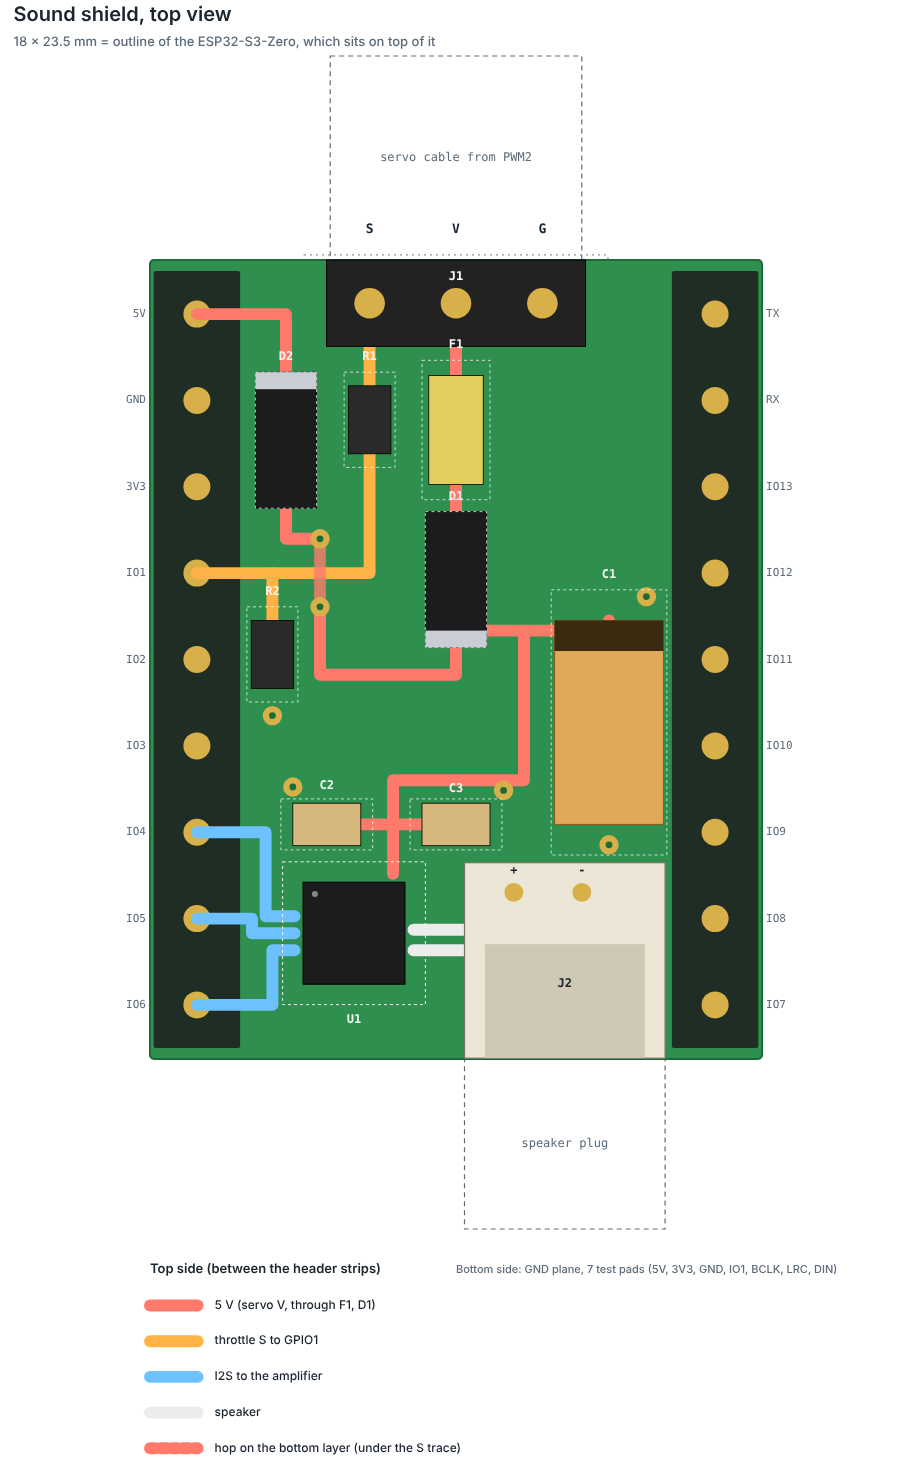
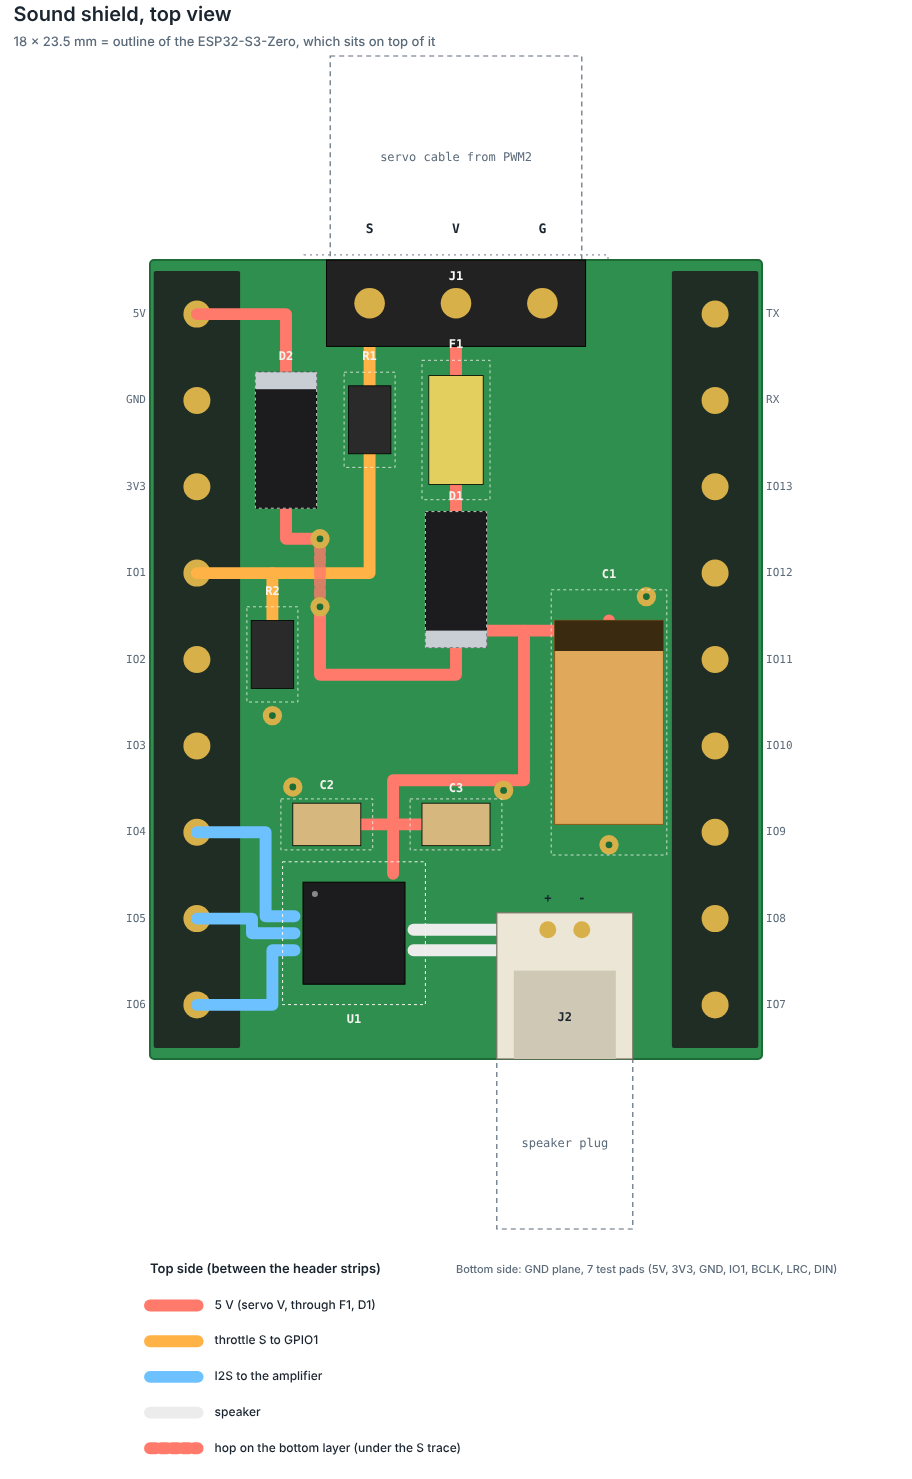
Shield: speaker connector J2 = JST SH 1.0 mm 2-pin (as CyberBrick motor/button ports)
Documents the connectors used by CyberBrick (from the Maker's Supply manual); mock and 3D model updated.

Claude-Session: https://claude.ai/code/session_01RfFviRiwUkSRaVdHR7ASqX

Changed region(s): [[0.4912, 0.5598, 0.7368, 0.7153]]

diff --git a/docs/shield-3d.html b/docs/shield-3d.html
@@ -93,7 +93,7 @@ aside h2 { margin: 0; padding: 10px 12px; font-size: 13px; font-weight: 600; let
 <script src="https://cdn.jsdelivr.net/npm/three@0.128.0/examples/js/controls/OrbitControls.js"></script>
 <script>
 (function () {
-  var D = {"board": {"w": 18.0, "h": 23.5, "t": 1.6}, "hdrX": [1.38, 16.62], "hdrH": 8.5, "pinY": [1.59, 4.13, 6.67, 9.21, 11.75, 14.29, 16.83, 19.37, 21.91], "leftPins": ["5V", "GND", "3V3", "IO1", "IO2", "IO3", "IO4", "IO5", "IO6"], "rightPins": ["TX", "RX", "IO13", "IO12", "IO11", "IO10", "IO9", "IO8", "IO7"], "j1x": [6.46, 9.0, 11.54], "j1y": 1.27, "parts": [{"ref": "J1", "kind": "hdr_ra", "x": 9.0, "y": 1.27, "w": 7.62, "h": 2.54, "z": 2.54, "name": "Input header (S, V, G)", "desc": "3-pin right-angle header at the top edge; the servo cable from PWM2 plugs in from outside. S = throttle copy, V = 5 V, G = ground."}, {"ref": "R1", "kind": "chip_r", "x": 6.46, "y": 4.7, "w": 1.5, "h": 2.8, "z": 0.5, "body": [1.25, 2.0], "name": "Resistor 1 kOhm", "desc": "Series resistor between the throttle signal and GPIO1."}, {"ref": "F1", "kind": "chip_f", "x": 9.0, "y": 5.0, "w": 2.0, "h": 4.1, "z": 1.0, "body": [1.6, 3.2], "name": "Resettable fuse (PTC)", "desc": "1206 PTC, about 0.5 A hold. Limits the current drawn from the servo port (the module takes about 0.1 A)."}, {"ref": "D1", "kind": "diode", "x": 9.0, "y": 9.4, "w": 1.8, "h": 4.0, "z": 1.1, "band": "bottom", "name": "Reverse-polarity diode", "desc": "Schottky diode (SOD-123) protecting the module if the servo cable is plugged in the wrong way round."}, {"ref": "D2", "kind": "diode", "x": 4.0, "y": 5.3, "w": 1.8, "h": 4.0, "z": 1.1, "band": "top", "name": "5 V OR-ing diode", "desc": "Keeps USB 5 V and servo-port 5 V from fighting, so both can be connected at the same time."}, {"ref": "R2", "kind": "chip_r", "x": 3.6, "y": 11.6, "w": 1.5, "h": 2.8, "z": 0.5, "body": [1.25, 2.0], "name": "Resistor 100 kOhm", "desc": "Pull-down on GPIO1, so the input has a defined level when the cable is unplugged."}, {"ref": "C1", "kind": "cap_t", "x": 13.5, "y": 13.6, "w": 3.4, "h": 7.8, "z": 2.8, "body": [3.2, 6.0], "name": "Bulk capacitor 100 uF", "desc": "Polymer/tantalum 6032 case. Absorbs the current peaks of loud passages so the 5 V rail does not sag."}, {"ref": "C2", "kind": "chip_c", "x": 5.2, "y": 16.6, "w": 2.7, "h": 1.5, "z": 0.9, "body": [2.0, 1.25], "name": "Decoupling 10 uF", "desc": "Ceramic 0805 close to the amplifier supply pin."}, {"ref": "C3", "kind": "chip_c", "x": 9.0, "y": 16.6, "w": 2.7, "h": 1.5, "z": 0.6, "body": [2.0, 1.25], "name": "Decoupling 100 nF", "desc": "Ceramic 0805 close to the amplifier supply pin."}, {"ref": "U1", "kind": "qfn", "x": 6.0, "y": 19.8, "w": 4.2, "h": 4.2, "z": 0.8, "body": [3.0, 3.0], "name": "MAX98357A amplifier", "desc": "I2S class-D amplifier, TQFN-16 3 x 3 mm. Receives BCLK, LRC and DIN from the ESP32 and drives the speaker directly."}, {"ref": "J2", "kind": "jst_side", "x": 12.2, "y": 20.6, "w": 5.9, "h": 5.75, "z": 4.4, "name": "Speaker connector", "desc": "JST-PH 2-pin side-entry connector at the bottom edge; the speaker cable plugs in from outside (or two solder pads instead)."}], "nets": [{"net": "S", "color": "#ffb347", "pts": [[6.46, 1.27], [6.46, 3.8]]}, {"net": "S", "color": "#ffb347", "pts": [[6.46, 5.6], [6.46, 9.21], [1.38, 9.21]]}, {"net": "V", "color": "#ff7a6b", "pts": [[9.0, 1.27], [9.0, 3.35]]}, {"net": "V", "color": "#ff7a6b", "pts": [[9.0, 6.65], [9.0, 7.9]]}, {"net": "5V", "color": "#ff7a6b", "pts": [[9.0, 10.9], [13.5, 10.9], [13.5, 10.6]]}, {"net": "5V", "color": "#ff7a6b", "pts": [[9.0, 10.9], [9.0, 12.2], [5.0, 12.2], [5.0, 10.2]]}, {"net": "5V", "color": "#ff7a6b", "layer": "bot", "pts": [[5.0, 10.2], [5.0, 8.2]]}, {"net": "5V", "color": "#ff7a6b", "pts": [[5.0, 8.2], [4.0, 8.2], [4.0, 6.9]]}, {"net": "5V", "color": "#ff7a6b", "pts": [[4.0, 3.7], [4.0, 1.59], [1.38, 1.59]]}, {"net": "5V", "color": "#ff7a6b", "pts": [[11.0, 10.9], [11.0, 15.3], [7.15, 15.3], [7.15, 18.05]]}, {"net": "5V", "color": "#ff7a6b", "pts": [[6.2, 16.6], [7.15, 16.6]]}, {"net": "5V", "color": "#ff7a6b", "pts": [[7.15, 16.6], [8.0, 16.6]]}, {"net": "DIN", "color": "#6ec1ff", "pts": [[1.38, 16.83], [3.4, 16.83], [3.4, 19.3], [4.25, 19.3]]}, {"net": "BCLK", "color": "#6ec1ff", "pts": [[1.38, 19.37], [3.0, 19.37], [3.0, 19.8], [4.25, 19.8]]}, {"net": "LRC", "color": "#6ec1ff", "pts": [[1.38, 21.91], [3.6, 21.91], [3.6, 20.3], [4.25, 20.3]]}, {"net": "SPK+", "color": "#ececec", "pts": [[7.75, 19.7], [10.7, 19.7], [10.7, 18.6]]}, {"net": "SPK-", "color": "#ececec", "pts": [[7.75, 20.3], [12.7, 20.3], [12.7, 18.6]]}, {"net": "S", "color": "#ffb347", "pts": [[3.6, 9.21], [3.6, 10.6]]}], "gndVias": [[3.6, 13.4], [4.2, 15.5], [10.4, 15.6], [13.5, 17.2], [6.0, 19.8], [14.6, 9.9]], "hopVias": [[5.0, 10.2], [5.0, 8.2]], "tp": [[3.4, 22.7], [5.4, 22.7], [7.4, 22.7], [9.4, 22.7], [11.4, 22.7], [13.4, 22.7], [15.4, 22.7]], "tpNames": ["5V", "3V3", "GND", "IO1", "BCLK", "LRC", "DIN"]};
+  var D = {"board": {"w": 18.0, "h": 23.5, "t": 1.6}, "hdrX": [1.38, 16.62], "hdrH": 8.5, "pinY": [1.59, 4.13, 6.67, 9.21, 11.75, 14.29, 16.83, 19.37, 21.91], "leftPins": ["5V", "GND", "3V3", "IO1", "IO2", "IO3", "IO4", "IO5", "IO6"], "rightPins": ["TX", "RX", "IO13", "IO12", "IO11", "IO10", "IO9", "IO8", "IO7"], "j1x": [6.46, 9.0, 11.54], "j1y": 1.27, "parts": [{"ref": "J1", "kind": "hdr_ra", "x": 9.0, "y": 1.27, "w": 7.62, "h": 2.54, "z": 2.54, "name": "Input header (S, V, G)", "desc": "3-pin right-angle header at the top edge; the servo cable from PWM2 plugs in from outside. S = throttle copy, V = 5 V, G = ground."}, {"ref": "R1", "kind": "chip_r", "x": 6.46, "y": 4.7, "w": 1.5, "h": 2.8, "z": 0.5, "body": [1.25, 2.0], "name": "Resistor 1 kOhm", "desc": "Series resistor between the throttle signal and GPIO1."}, {"ref": "F1", "kind": "chip_f", "x": 9.0, "y": 5.0, "w": 2.0, "h": 4.1, "z": 1.0, "body": [1.6, 3.2], "name": "Resettable fuse (PTC)", "desc": "1206 PTC, about 0.5 A hold. Limits the current drawn from the servo port (the module takes about 0.1 A)."}, {"ref": "D1", "kind": "diode", "x": 9.0, "y": 9.4, "w": 1.8, "h": 4.0, "z": 1.1, "band": "bottom", "name": "Reverse-polarity diode", "desc": "Schottky diode (SOD-123) protecting the module if the servo cable is plugged in the wrong way round."}, {"ref": "D2", "kind": "diode", "x": 4.0, "y": 5.3, "w": 1.8, "h": 4.0, "z": 1.1, "band": "top", "name": "5 V OR-ing diode", "desc": "Keeps USB 5 V and servo-port 5 V from fighting, so both can be connected at the same time."}, {"ref": "R2", "kind": "chip_r", "x": 3.6, "y": 11.6, "w": 1.5, "h": 2.8, "z": 0.5, "body": [1.25, 2.0], "name": "Resistor 100 kOhm", "desc": "Pull-down on GPIO1, so the input has a defined level when the cable is unplugged."}, {"ref": "C1", "kind": "cap_t", "x": 13.5, "y": 13.6, "w": 3.4, "h": 7.8, "z": 2.8, "body": [3.2, 6.0], "name": "Bulk capacitor 100 uF", "desc": "Polymer/tantalum 6032 case. Absorbs the current peaks of loud passages so the 5 V rail does not sag."}, {"ref": "C2", "kind": "chip_c", "x": 5.2, "y": 16.6, "w": 2.7, "h": 1.5, "z": 0.9, "body": [2.0, 1.25], "name": "Decoupling 10 uF", "desc": "Ceramic 0805 close to the amplifier supply pin."}, {"ref": "C3", "kind": "chip_c", "x": 9.0, "y": 16.6, "w": 2.7, "h": 1.5, "z": 0.6, "body": [2.0, 1.25], "name": "Decoupling 100 nF", "desc": "Ceramic 0805 close to the amplifier supply pin."}, {"ref": "U1", "kind": "qfn", "x": 6.0, "y": 19.8, "w": 4.2, "h": 4.2, "z": 0.8, "body": [3.0, 3.0], "name": "MAX98357A amplifier", "desc": "I2S class-D amplifier, TQFN-16 3 x 3 mm. Receives BCLK, LRC and DIN from the ESP32 and drives the speaker directly."}, {"ref": "J2", "kind": "jst_side", "x": 12.2, "y": 21.35, "w": 4.0, "h": 4.3, "z": 3.9, "name": "Speaker connector (JST SH 1.0)", "desc": "JST SH 1.0 mm 2-pin side-entry connector at the bottom edge, the same type as the CyberBrick motor ports (M1/M2) and button ports. The speaker cable (for example the 2-pin SH cable of a button module) plugs in from outside."}], "nets": [{"net": "S", "color": "#ffb347", "pts": [[6.46, 1.27], [6.46, 3.8]]}, {"net": "S", "color": "#ffb347", "pts": [[6.46, 5.6], [6.46, 9.21], [1.38, 9.21]]}, {"net": "V", "color": "#ff7a6b", "pts": [[9.0, 1.27], [9.0, 3.35]]}, {"net": "V", "color": "#ff7a6b", "pts": [[9.0, 6.65], [9.0, 7.9]]}, {"net": "5V", "color": "#ff7a6b", "pts": [[9.0, 10.9], [13.5, 10.9], [13.5, 10.6]]}, {"net": "5V", "color": "#ff7a6b", "pts": [[9.0, 10.9], [9.0, 12.2], [5.0, 12.2], [5.0, 10.2]]}, {"net": "5V", "color": "#ff7a6b", "layer": "bot", "pts": [[5.0, 10.2], [5.0, 8.2]]}, {"net": "5V", "color": "#ff7a6b", "pts": [[5.0, 8.2], [4.0, 8.2], [4.0, 6.9]]}, {"net": "5V", "color": "#ff7a6b", "pts": [[4.0, 3.7], [4.0, 1.59], [1.38, 1.59]]}, {"net": "5V", "color": "#ff7a6b", "pts": [[11.0, 10.9], [11.0, 15.3], [7.15, 15.3], [7.15, 18.05]]}, {"net": "5V", "color": "#ff7a6b", "pts": [[6.2, 16.6], [7.15, 16.6]]}, {"net": "5V", "color": "#ff7a6b", "pts": [[7.15, 16.6], [8.0, 16.6]]}, {"net": "DIN", "color": "#6ec1ff", "pts": [[1.38, 16.83], [3.4, 16.83], [3.4, 19.3], [4.25, 19.3]]}, {"net": "BCLK", "color": "#6ec1ff", "pts": [[1.38, 19.37], [3.0, 19.37], [3.0, 19.8], [4.25, 19.8]]}, {"net": "LRC", "color": "#6ec1ff", "pts": [[1.38, 21.91], [3.6, 21.91], [3.6, 20.3], [4.25, 20.3]]}, {"net": "SPK+", "color": "#ececec", "pts": [[7.75, 19.7], [11.7, 19.7]]}, {"net": "SPK-", "color": "#ececec", "pts": [[7.75, 20.3], [12.7, 20.3], [12.7, 19.7]]}, {"net": "S", "color": "#ffb347", "pts": [[3.6, 9.21], [3.6, 10.6]]}], "j2Pads": [[11.7, 19.7], [12.7, 19.7]], "gndVias": [[3.6, 13.4], [4.2, 15.5], [10.4, 15.6], [13.5, 17.2], [6.0, 19.8], [14.6, 9.9]], "hopVias": [[5.0, 10.2], [5.0, 8.2]], "tp": [[3.4, 22.7], [5.4, 22.7], [7.4, 22.7], [9.4, 22.7], [11.4, 22.7], [13.4, 22.7], [15.4, 22.7]], "tpNames": ["5V", "3V3", "GND", "IO1", "BCLK", "LRC", "DIN"]};
   var BW = D.board.w, BH = D.board.h, BT = D.board.t;
   document.getElementById('sub').textContent = BW + ' × ' + BH + ' mm · same outline as the ESP32-S3-Zero · mock, not routed';
 
@@ -190,7 +190,7 @@ aside h2 { margin: 0; padding: 10px 12px; font-size: 13px; font-weight: 600; let
     if (showNets) {
       D.nets.forEach(function (n) { line(cx, n.pts, n.color, 0.35, n.layer === 'bot' ? [0.45, 0.35] : null); });
       D.gndVias.concat(D.hopVias).forEach(function (v) { viaDot(cx, v); });
-      D.parts.forEach(function (p) { if (p.kind === 'jst_side') { [10.7, 12.7].forEach(function (x) { dot(cx, x, 18.6, 0.38, '#d8b04a'); }); } });
+      D.parts.forEach(function (p) { if (p.kind === 'jst_side') { D.j2Pads.forEach(function (q) { dot(cx, q[0], q[1], 0.32, '#d8b04a'); }); } });
     }
     if (showSilk) {
       var s = { bold: true, align: 'center' };
@@ -200,7 +200,7 @@ aside h2 { margin: 0; padding: 10px 12px; font-size: 13px; font-weight: 600; let
       txt(cx, 'R2', 5.6, 11.6, 0.5, { align: 'center' }); txt(cx, 'C1', 11.2, 13.6, 0.5, { align: 'center' });
       txt(cx, 'C2', 5.2, 15.6, 0.5, { align: 'center' }); txt(cx, 'C3', 9.0, 15.6, 0.5, { align: 'center' });
       txt(cx, 'U1', 6.0, 22.3, 0.5, { align: 'center' }); txt(cx, 'J2', 12.2, 22.9, 0.5, { align: 'center', color: '#1b2530' });
-      txt(cx, 'SPK', 12.2, 17.2, 0.5, { align: 'center' });
+      txt(cx, 'SPK', 12.2, 18.2, 0.5, { align: 'center' });
     }
     top.t.needsUpdate = true;
 
@@ -263,7 +263,7 @@ aside h2 { margin: 0; padding: 10px 12px; font-size: 13px; font-weight: 600; let
       g.add(box(p.x - 1.0, p.y - 1.0, 0.4, 0.4, 0.82, M.silver));
     } else if (k === 'jst_side') {
       g.add(box(p.x, p.y, p.w, p.h, p.z, M.ivory));
-      g.add(box(p.x, p.y + p.h / 2 - 1.6, p.w - 1.4, 3.3, p.z - 1.0, M.ivoryD, BT + 0.5));   // opening towards the edge
+      g.add(box(p.x, p.y + p.h / 2 - 1.3, p.w - 1.0, 2.7, p.z - 1.0, M.ivoryD, BT + 0.5));   // opening towards the edge
     }
     return g;
   }

diff --git a/tools/shield-3d.template.html b/tools/shield-3d.template.html
@@ -190,7 +190,7 @@ aside h2 { margin: 0; padding: 10px 12px; font-size: 13px; font-weight: 600; let
     if (showNets) {
       D.nets.forEach(function (n) { line(cx, n.pts, n.color, 0.35, n.layer === 'bot' ? [0.45, 0.35] : null); });
       D.gndVias.concat(D.hopVias).forEach(function (v) { viaDot(cx, v); });
-      D.parts.forEach(function (p) { if (p.kind === 'jst_side') { [10.7, 12.7].forEach(function (x) { dot(cx, x, 18.6, 0.38, '#d8b04a'); }); } });
+      D.parts.forEach(function (p) { if (p.kind === 'jst_side') { D.j2Pads.forEach(function (q) { dot(cx, q[0], q[1], 0.32, '#d8b04a'); }); } });
     }
     if (showSilk) {
       var s = { bold: true, align: 'center' };
@@ -200,7 +200,7 @@ aside h2 { margin: 0; padding: 10px 12px; font-size: 13px; font-weight: 600; let
       txt(cx, 'R2', 5.6, 11.6, 0.5, { align: 'center' }); txt(cx, 'C1', 11.2, 13.6, 0.5, { align: 'center' });
       txt(cx, 'C2', 5.2, 15.6, 0.5, { align: 'center' }); txt(cx, 'C3', 9.0, 15.6, 0.5, { align: 'center' });
       txt(cx, 'U1', 6.0, 22.3, 0.5, { align: 'center' }); txt(cx, 'J2', 12.2, 22.9, 0.5, { align: 'center', color: '#1b2530' });
-      txt(cx, 'SPK', 12.2, 17.2, 0.5, { align: 'center' });
+      txt(cx, 'SPK', 12.2, 18.2, 0.5, { align: 'center' });
     }
     top.t.needsUpdate = true;
 
@@ -263,7 +263,7 @@ aside h2 { margin: 0; padding: 10px 12px; font-size: 13px; font-weight: 600; let
       g.add(box(p.x - 1.0, p.y - 1.0, 0.4, 0.4, 0.82, M.silver));
     } else if (k === 'jst_side') {
       g.add(box(p.x, p.y, p.w, p.h, p.z, M.ivory));
-      g.add(box(p.x, p.y + p.h / 2 - 1.6, p.w - 1.4, 3.3, p.z - 1.0, M.ivoryD, BT + 0.5));   // opening towards the edge
+      g.add(box(p.x, p.y + p.h / 2 - 1.3, p.w - 1.0, 2.7, p.z - 1.0, M.ivoryD, BT + 0.5));   // opening towards the edge
     }
     return g;
   }

diff --git a/tools/make_shield_mock.py b/tools/make_shield_mock.py
@@ -48,7 +48,7 @@ def build_svg():
     # protruding plugs (outside the board): servo plug at the top, speaker plug at the bottom
     o.append(rect(5.3, -6.0, 12.7, 0.0, fill="none", stroke=MUTED, stroke_width=1.2, stroke_dasharray="5 4"))
     o.append(text(9.0, -3.0, "servo cable from PWM2", 12, "middle", fill=MUTED))
-    o.append(rect(9.25, L.BOARD_H, 15.15, L.BOARD_H + 5.0, fill="none", stroke=MUTED, stroke_width=1.2, stroke_dasharray="5 4"))
+    o.append(rect(10.2, L.BOARD_H, 14.2, L.BOARD_H + 5.0, fill="none", stroke=MUTED, stroke_width=1.2, stroke_dasharray="5 4"))
     o.append(text(12.2, L.BOARD_H + 2.5, "speaker plug", 12, "middle", fill=MUTED))
     # USB-C of the Zero (above, for orientation)
     o.append(rect(4.53, -0.15, 13.47, 7.15, fill="none", stroke="#8d949c", stroke_width=1.2, stroke_dasharray="2 4"))
@@ -87,10 +87,10 @@ def build_svg():
                 o.append(text(px, -0.9, nm, 13, "middle", 700))
         elif k == "jst_side":
             o.append(rect(x0, y0, x1, y1, fill="#ece6d6", stroke="#7a7466", stroke_width=1.2))
-            o.append(rect(x0 + 0.6, y0 + 2.4, x1 - 0.6, y1, fill="#cfc8b4", stroke="none"))
-            for px in (10.7, 12.7):
-                o.append(f'<circle cx="{X(px):.1f}" cy="{Y(18.6):.1f}" r="{0.55 * S / 2:.1f}" fill="#d8b04a"/>')
-            o.append(text(10.7, 17.95, "+", 12, "middle", 700)); o.append(text(12.7, 17.95, "-", 12, "middle", 700))
+            o.append(rect(x0 + 0.5, y0 + 1.7, x1 - 0.5, y1, fill="#cfc8b4", stroke="none"))
+            for px, py in L.J2_PADS:
+                o.append(f'<circle cx="{X(px):.1f}" cy="{Y(py):.1f}" r="{0.5 * S / 2:.1f}" fill="#d8b04a"/>')
+            o.append(text(L.J2_PADS[0][0], L.J2_PADS[0][1] - 0.9, "+", 12, "middle", 700)); o.append(text(L.J2_PADS[1][0], L.J2_PADS[1][1] - 0.9, "-", 12, "middle", 700))
         elif k == "qfn":
             bx0, by0, bx1, by1 = p["x"] - 1.5, p["y"] - 1.5, p["x"] + 1.5, p["y"] + 1.5
             o.append(rect(x0, y0, x1, y1, fill="none", stroke="#f4f4ee", stroke_width=1, stroke_dasharray="3 3"))
@@ -118,7 +118,7 @@ def build_svg():
     o.append(text(6.0, 22.35, "U1", 12, "middle", 700, "#f4f4ee"))
     o.append(text(5.2, 15.45, "C2", 12, "middle", 700, "#f4f4ee"))
     o.append(text(9.0, 15.55, "C3", 12, "middle", 700, "#f4f4ee"))
-    o.append(text(12.2, 21.3, "J2", 12, "middle", 700, "#1b2530"))
+    o.append(text(12.2, 22.3, "J2", 12, "middle", 700, "#1b2530"))
     o.append(text(9.0, 0.5, "J1", 12, "middle", 700, "#fff"))
 
     # legend below
@@ -143,7 +143,7 @@ def build_3d():
     data = dict(
         board=dict(w=L.BOARD_W, h=L.BOARD_H, t=L.BOARD_T), hdrX=L.HDR_X, hdrH=L.HDR_H, pinY=L.PIN_Y,
         leftPins=L.LEFT_PINS, rightPins=L.RIGHT_PINS, j1x=L.J1_X, j1y=L.J1_Y, parts=L.PARTS, nets=L.NETS,
-        gndVias=L.GND_VIAS, hopVias=L.HOP_VIAS, tp=L.TP, tpNames=L.TP_NAMES,
+        j2Pads=L.J2_PADS, gndVias=L.GND_VIAS, hopVias=L.HOP_VIAS, tp=L.TP, tpNames=L.TP_NAMES,
     )
     return tpl.replace("/*LAYOUT_JSON*/null", json.dumps(data))
 

diff --git a/tools/shield_layout.py b/tools/shield_layout.py
@@ -46,8 +46,8 @@ PARTS = [
          name="Decoupling 100 nF", desc="Ceramic 0805 close to the amplifier supply pin."),
     dict(ref="U1", kind="qfn", x=6.0, y=19.8, w=4.2, h=4.2, z=0.8, body=(3.0, 3.0),
          name="MAX98357A amplifier", desc="I2S class-D amplifier, TQFN-16 3 x 3 mm. Receives BCLK, LRC and DIN from the ESP32 and drives the speaker directly."),
-    dict(ref="J2", kind="jst_side", x=12.2, y=20.6, w=5.9, h=5.75, z=4.4,
-         name="Speaker connector", desc="JST-PH 2-pin side-entry connector at the bottom edge; the speaker cable plugs in from outside (or two solder pads instead)."),
+    dict(ref="J2", kind="jst_side", x=12.2, y=21.35, w=4.0, h=4.3, z=3.9,
+         name="Speaker connector (JST SH 1.0)", desc="JST SH 1.0 mm 2-pin side-entry connector at the bottom edge, the same type as the CyberBrick motor ports (M1/M2) and button ports. The speaker cable (for example the 2-pin SH cable of a button module) plugs in from outside."),
 ]
 
 # nets: pts are board coordinates; layer 'top' or 'bot'
@@ -70,14 +70,16 @@ NETS = [
     dict(net="BCLK", color="#6ec1ff", pts=[[HDR_X[0], IO5_Y], [3.0, IO5_Y], [3.0, 19.8], [4.25, 19.8]]),
     dict(net="LRC", color="#6ec1ff", pts=[[HDR_X[0], IO6_Y], [3.6, IO6_Y], [3.6, 20.3], [4.25, 20.3]]),
     # speaker
-    dict(net="SPK+", color="#ececec", pts=[[7.75, 19.7], [10.7, 19.7], [10.7, 18.6]]),
-    dict(net="SPK-", color="#ececec", pts=[[7.75, 20.3], [12.7, 20.3], [12.7, 18.6]]),
+    dict(net="SPK+", color="#ececec", pts=[[7.75, 19.7], [11.7, 19.7]]),
+    dict(net="SPK-", color="#ececec", pts=[[7.75, 20.3], [12.7, 20.3], [12.7, 19.7]]),
     # pull-down tap
     dict(net="S", color="#ffb347", pts=[[3.6, IO1_Y], [3.6, 10.6]]),
 ]
 # GND vias (GND plane on the bottom layer) and the hop vias
 GND_VIAS = [[3.6, 13.4], [4.2, 15.5], [10.4, 15.6], [13.5, 17.2], [6.0, 19.8], [14.6, 9.9]]
 HOP_VIAS = [[5.0, 10.2], [5.0, 8.2]]
+
+J2_PADS = [[11.7, 19.7], [12.7, 19.7]]       # signal pads of J2 (1.0 mm pitch), + and -
 
 # test pads on the bottom side
 TP_NAMES = ["5V", "3V3", "GND", "IO1", "BCLK", "LRC", "DIN"]

diff --git a/docs/shield-pcb.md b/docs/shield-pcb.md
@@ -18,17 +18,22 @@ Nothing else can be connected to PWM2: a servo there would follow the throttle. 
 
 Mock of the layout (top view, illustrative placement, not routed). An interactive 3D model is `shield-3d.html`. Both are generated from the same layout data by `tools/make_shield_mock.py` (layout in `tools/shield_layout.py`).
 
-**Board size: 18 x 23.5 mm, exactly the outline of the ESP32-S3-Zero**, which sits on top of it in two 9-pin female header strips (15.24 mm apart, 8.5 mm tall). Everything fits in the 12.7 mm gap between the strips (top side) or on the bottom side (test pads, GND plane). Only the two cable plugs stick out past the board ends: the servo plug at the USB end (right-angle header J1) and the speaker plug at the opposite end (side-entry JST-PH J2). With the Zero the stack is about 14 mm high. All pins used by the firmware are on one side of the Zero (5V, GPIO1, GPIO4-6 on the left column), the right column stays free.
+**Board size: 18 x 23.5 mm, exactly the outline of the ESP32-S3-Zero**, which sits on top of it in two 9-pin female header strips (15.24 mm apart, 8.5 mm tall). Everything fits in the 12.7 mm gap between the strips (top side) or on the bottom side (test pads, GND plane). Only the two cable plugs stick out past the board ends: the servo plug at the USB end (right-angle header J1) and the speaker plug at the opposite end (side-entry JST SH 1.0 mm J2). With the Zero the stack is about 14 mm high. All pins used by the firmware are on one side of the Zero (5V, GPIO1, GPIO4-6 on the left column), the right column stays free.
 
 1. **Socket or pads for the ESP32-S3-Zero**, same pin use as the prototype: GPIO1 throttle in, GPIO4 I2S DOUT, GPIO5 BCLK, GPIO6 LRC. The USB-C port and the Boot/Reset buttons must stay reachable for flashing.
 2. **Input connector** (3-pin servo type: S, V, G) to PWM2. S goes through a 1 kOhm series resistor to GPIO1, optionally with a large pull-down (for example 100 kOhm) so the input is defined when disconnected, and optionally an ESD/TVS device.
 3. **Power from the servo port**: reverse-polarity protection (Schottky diode or P-MOSFET), a resettable fuse, a bulk capacitor (about 100-470 uF) near the amplifier and small ceramic decoupling capacitors. A diode (or ideal diode) between the servo-port 5 V and the USB 5 V so both can be connected at the same time; on the breadboard only one of them may ever be connected.
-4. **MAX98357A amplifier**: gain and shutdown/channel pins configurable (resistors or jumpers), speaker output to a connector (for example JST-PH) or solder pads. The chip is hard to solder by hand; assembly by a PCB service is likely.
+4. **MAX98357A amplifier**: gain and shutdown/channel pins configurable (resistors or jumpers), speaker output to a JST SH 1.0 mm 2-pin connector (see below) or solder pads. The chip is hard to solder by hand; assembly by a PCB service is likely.
 5. **Service items**: test points (5 V, 3.3 V, GND, GPIO1, I2S lines) as pads on the bottom side. Because the board is only as large as the Zero there are no mounting holes (the sockets and the cables hold it; fix it with a stand-off or tape), and no room for a status LED or a spare GPIO header: the unused Zero pins are reachable at the socket tails on the bottom.
+
+## Connectors used by CyberBrick
+
+From the Maker's Supply CyberBrick user's manual (the Bambu store page names only the power input): DC motor ports M1/M2 and the transmitter button ports K1-K4 are **JST SH 1.0 mm 2-pin**; joystick (ADC) and WS2812 LED ports are SH 1.0 mm 3-pin; servo ports S1-S4 are 3-pin headers (2.54 mm); power inputs and the power switch are **XH 2.54 mm 2-pin**. The kit's SH 2-pin wires (button module, N20 motor) therefore fit a speaker connector of the same type, so the speaker connector J2 is SH 1.0 mm 2-pin and users need no crimping: a 2-pin SH cable with one free end is soldered to the speaker (or supplied with it). Open: whether the kit has spare 2-pin SH cables (the manual does not list the kit's cables); cheap SH 2-pin pigtails are sold separately.
 
 ## Decided
 
 - Board size: the outline of the ESP32-S3-Zero (see above).
+- Speaker connector J2: JST SH 1.0 mm 2-pin, as used by the CyberBrick motor and button ports.
 - The amplifier is a bare MAX98357A chip on the board, **assembled by a PCB service** (the TQFN-16 package is not practical to hand-solder). No plug-in breakout module.
 
 ## Decisions still open
@@ -63,7 +68,7 @@ Part numbers are examples to be checked when the schematic is drawn; values mark
 | | GAIN and SD_MODE configuration: solder-jumper pads and 100 kOhm resistors | 2-3 | default GAIN open = 9 dB; the SD_MODE resistor values that give (L+R)/2 are to be checked in the datasheet (the firmware sends the same sample on both channels) |
 | | Optional 22-33 Ohm series resistors on BCLK, LRC, DIN | 3 | EMI damping; can be 0 Ohm |
 | | Optional ferrite beads and small capacitors on the speaker outputs | 2 + 2 | only if EMI becomes a problem with longer speaker wires |
-| Speaker | JST-PH 2-pin side-entry SMD connector (for example S2B-PH-SM4-TB) + mating cable | 1 | at the board end, plug enters from outside; or two solder pads |
+| Speaker | JST SH 1.0 mm 2-pin side-entry SMD connector (for example SM02B-SRSS-TB; footprint about 4 x 4.3 mm, check the datasheet) + mating cable | 1 | same type as the CyberBrick M1/M2 and button ports; at the board end, plug enters from outside; rated about 1 A per contact, enough here (the whole module drew 105 mA at full throttle) |
 | Input | 3-pin 2.54 mm right-angle pin header (S, V, G) | 1 | at the USB end of the board; mates with a 3-pin female servo/Dupont cable to PWM2 (check the orientation against the receiver's header) |
 | | Resistor 1 kOhm | 1 | series resistor S to GPIO1 |
 | | Resistor 100 kOhm | 1 | pull-down on GPIO1 (defined level when the cable is unplugged) |
